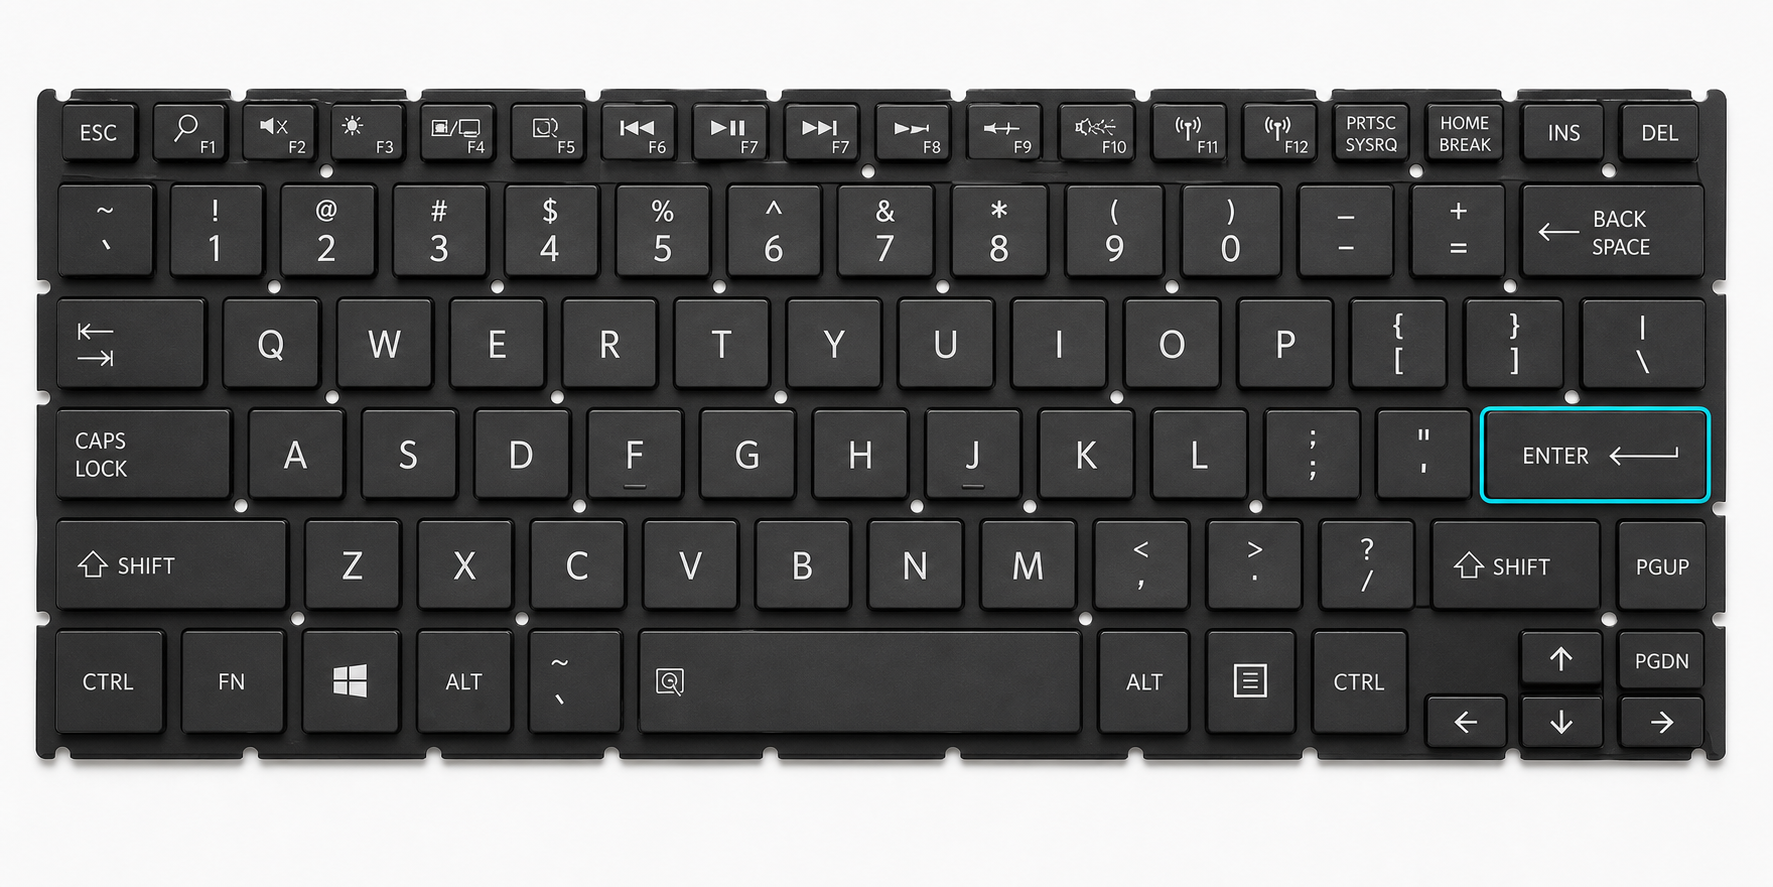
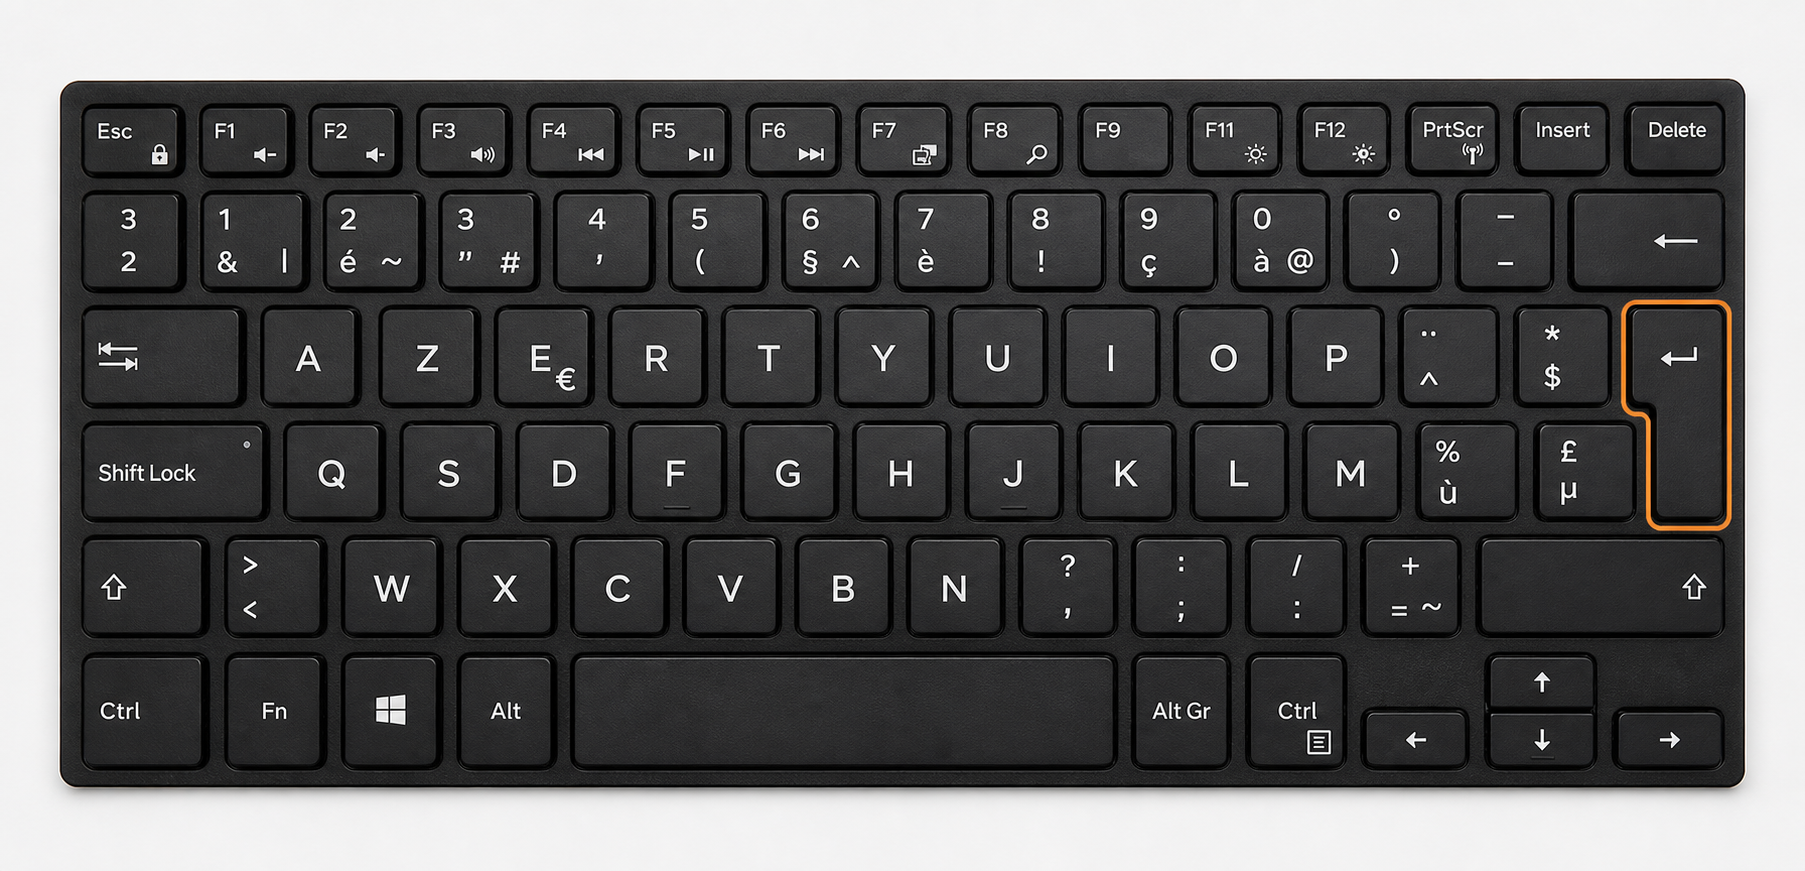
Wissel E1 en E2 om: E1 is de grote Enter
Overal in de app stond E1 als de brede rechthoekige Enter en E2 als de hoge
omgekeerde L. Volgens de werkvloer is het omgekeerd: E1 is de grote Enter, E2
de kleine. Dat is nu overal doorgevoerd — de silhouetten op de keuzeknoppen, de
omschrijvingen, en de voorbeeldfoto's achter het i-knopje, want anders zou de
foto de knop tegenspreken.

De twee foto's waren op naam ook omgedraaid: het bestand met "e1" liet de kleine
Enter zien. De inhoud van de twee bestanden is verwisseld zodat de naam weer
klopt met wat erop staat, en de afmetingen in de referentiedialoog zijn mee
verwisseld.

Wat hiervoor pleitte in de eigen gegevens: de drie hangmappen met een ISO-taal
(twee AZERTY FR, één QWERTZ DE) staan allemaal op E1, en die toetsenborden
hebben fysiek de grote Enter.

En het ordernummer staat nu ook in de geschiedenis bij Noviply. Zonder dat is
een afgehandelde regel niet meer aan een order te koppelen in hun eigen
administratie. In de openstaande lijst staat hij nu net zo opvallend.

diff --git a/app/src/components/noviply-workspace.tsx b/app/src/components/noviply-workspace.tsx
@@ -345,7 +345,7 @@ export function NoviplyWorkspace({
                   {/* Eén order kan meerdere laptops zijn; meer dan één valt op,
                       want dat is het geval waar misgeprint wordt. */}
                   <td><b className={request.quantity > 1 ? "quantity-many" : ""}>{request.quantity}×</b></td>
-                  <td>{request.orderReference || "—"}</td>
+                  <td><b className="order-cell">{request.orderReference || "—"}</b></td>
                   <td>
                     <strong>{formatMoment(request.requestedAt)}</strong>
                     <span>{request.reason || request.requestedBy}</span>
@@ -482,7 +482,14 @@ export function NoviplyWorkspace({
           <div className="table-wrap">
             <table className="operations-table">
               <thead>
-                <tr><th>Brand / model</th><th>Language</th><th>Sheets</th><th>Outcome</th><th>Handled</th></tr>
+                <tr>
+                  <th>Brand / model</th>
+                  <th>Language</th>
+                  <th>Sheets</th>
+                  <th>Order number</th>
+                  <th>Outcome</th>
+                  <th>Handled</th>
+                </tr>
               </thead>
               <tbody>
                 {handled.map((request) => (
@@ -490,6 +497,10 @@ export function NoviplyWorkspace({
                     <td><strong>{request.brand}</strong><span>{request.model}</span></td>
                     <td>{request.layout}</td>
                     <td><b className={request.quantity > 1 ? "quantity-many" : ""}>{request.quantity}×</b></td>
+                    {/* Waarop dit terug te vinden is in hun eigen administratie;
+                        zonder dit is een regel in de geschiedenis niet meer aan
+                        een order te koppelen. */}
+                    <td><b className="order-cell">{request.orderReference || "—"}</b></td>
                     <td>
                       <span className={`print-status ${request.status}`}>
                         {request.status === "printed" ? "✓" : "✕"} {printRequestStatusLabel(request.status)}

diff --git a/app/src/components/keyboard-reference-dialog.tsx b/app/src/components/keyboard-reference-dialog.tsx
@@ -34,20 +34,20 @@ const fitVariantReferences = [
   {
     variant: "E1",
     image: "/keyboard-reference-e1-dell-v3.png",
-    width: 1773,
-    height: 887,
+    width: 1805,
+    height: 871,
     tone: "e1",
-    label: "Brede horizontale Enter",
-    explanation: "E1: controleer de brede rechthoekige Enter op één toetsenrij.",
+    label: "Grote L-vormige Enter",
+    explanation: "E1: controleer de grote Enter met hoek over twee toetsenrijen.",
   },
   {
     variant: "E2",
     image: "/keyboard-reference-e2-dell-v3.png",
-    width: 1805,
-    height: 871,
+    width: 1773,
+    height: 887,
     tone: "e2",
-    label: "Hoge L-vormige Enter",
-    explanation: "E2: controleer de hoge Enter met hoek over twee toetsenrijen.",
+    label: "Kleine horizontale Enter",
+    explanation: "E2: controleer de kleine rechthoekige Enter op één toetsenrij.",
   },
 ] as const;
 

diff --git a/app/src/components/enter-shape-glyph.tsx b/app/src/components/enter-shape-glyph.tsx
@@ -22,7 +22,7 @@ export function EnterShapeGlyph({ shape }: { shape: "E1" | "E2" }) {
       <rect x="1.5" y="2.5" width="18" height="18" rx="3" className="enter-glyph-neighbour" />
       <rect x="1.5" y="23.5" width="18" height="18" rx="3" className="enter-glyph-neighbour" />
 
-      {shape === "E1" ? (
+      {shape === "E2" ? (
         <>
           {/* Eén rij hoog en breed; onder hem ligt de rechter shift. */}
           <rect x="23.5" y="2.5" width="47" height="18" rx="3" className="enter-glyph-key" />

diff --git a/app/src/app/globals.css b/app/src/app/globals.css
@@ -3000,3 +3000,7 @@ input:focus, select:focus, textarea:focus { outline: none; border-color: var(--s
   letter-spacing: .08em; text-transform: uppercase;
 }
 .method-supplier b { color: var(--text-2); font-size: 13px; font-weight: 700; }
+
+/* Het ordernummer is waarop Noviply een regel terugvindt in hun eigen
+   administratie. Dat mag niet het lichtste op de regel zijn. */
+.order-cell { color: var(--text); font-size: 15px; font-weight: 700; letter-spacing: .01em; }

diff --git a/app/src/components/employee-workspace.tsx b/app/src/components/employee-workspace.tsx
@@ -108,13 +108,13 @@ const enterShapeChoices: { id: EnterShapeId; label: string; detail: string; imag
   {
     id: "E1",
     label: "E1",
-    detail: "Rechthoekige Enter",
+    detail: "Grote Enter, omgekeerde L",
     image: `${assetBase}/keyboard-reference-e1-dell-v3.png`,
   },
   {
     id: "E2",
     label: "E2",
-    detail: "Hoge, omgekeerde L",
+    detail: "Kleine, rechthoekige Enter",
     image: `${assetBase}/keyboard-reference-e2-dell-v3.png`,
   },
 ];
